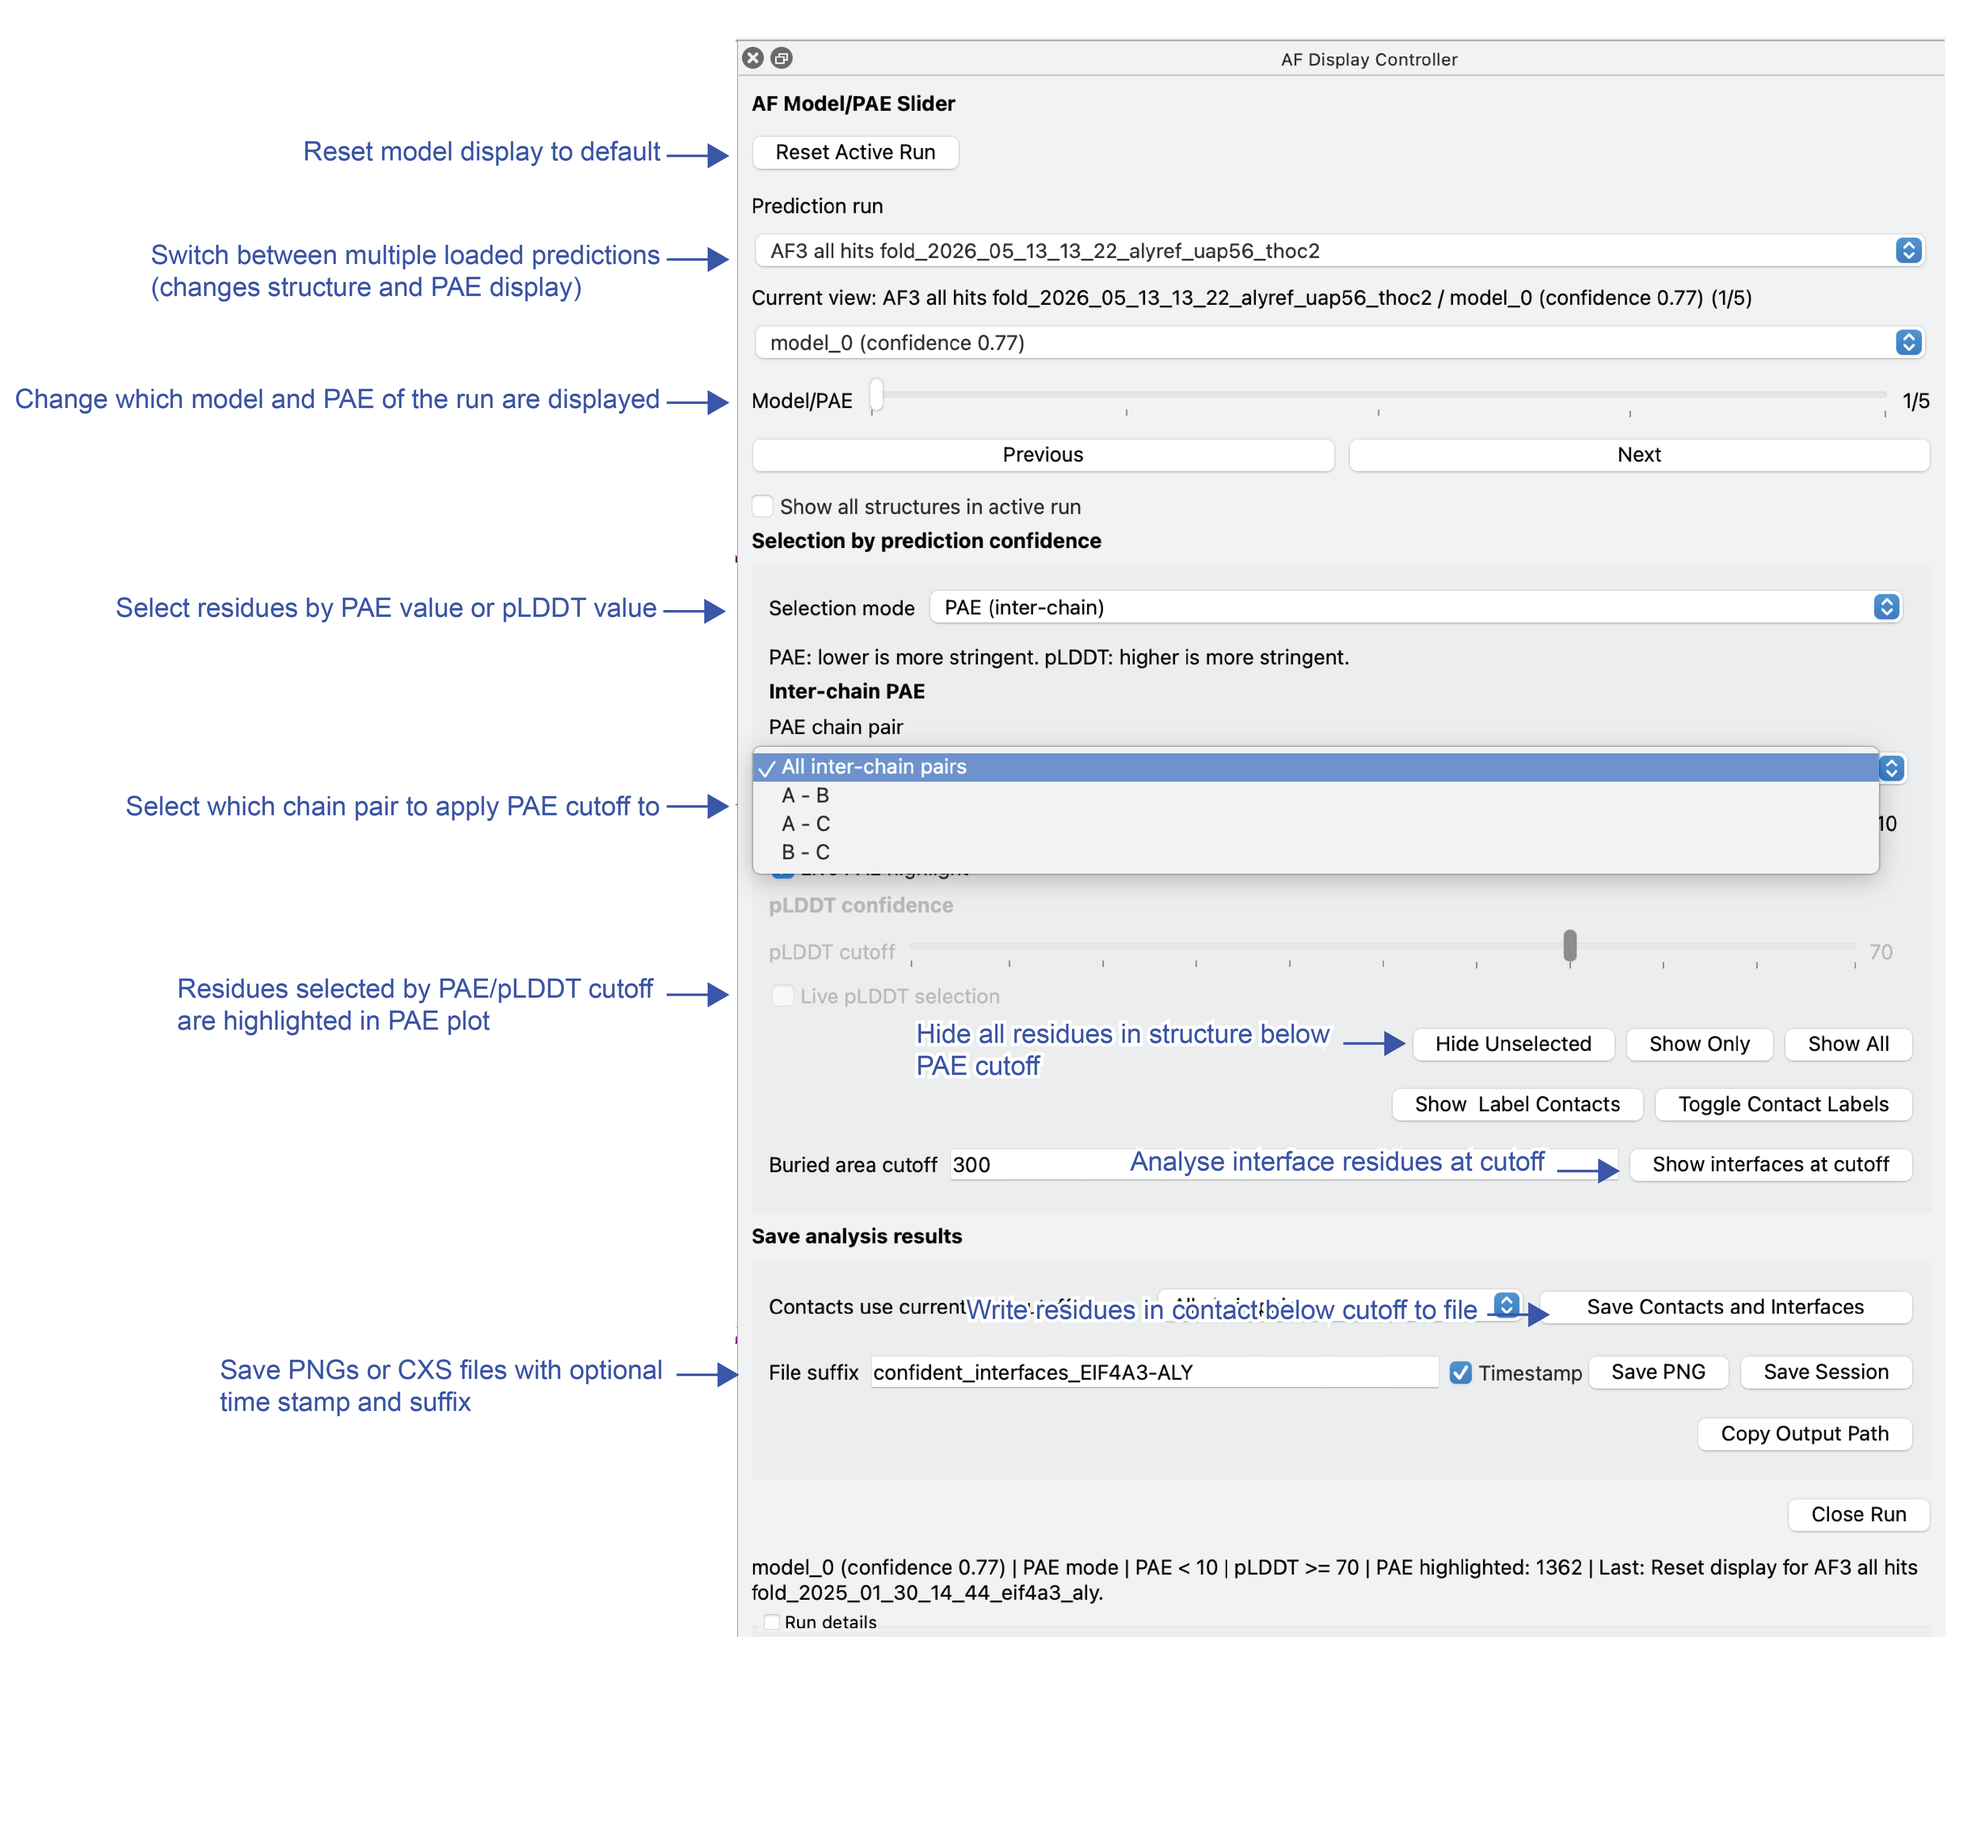
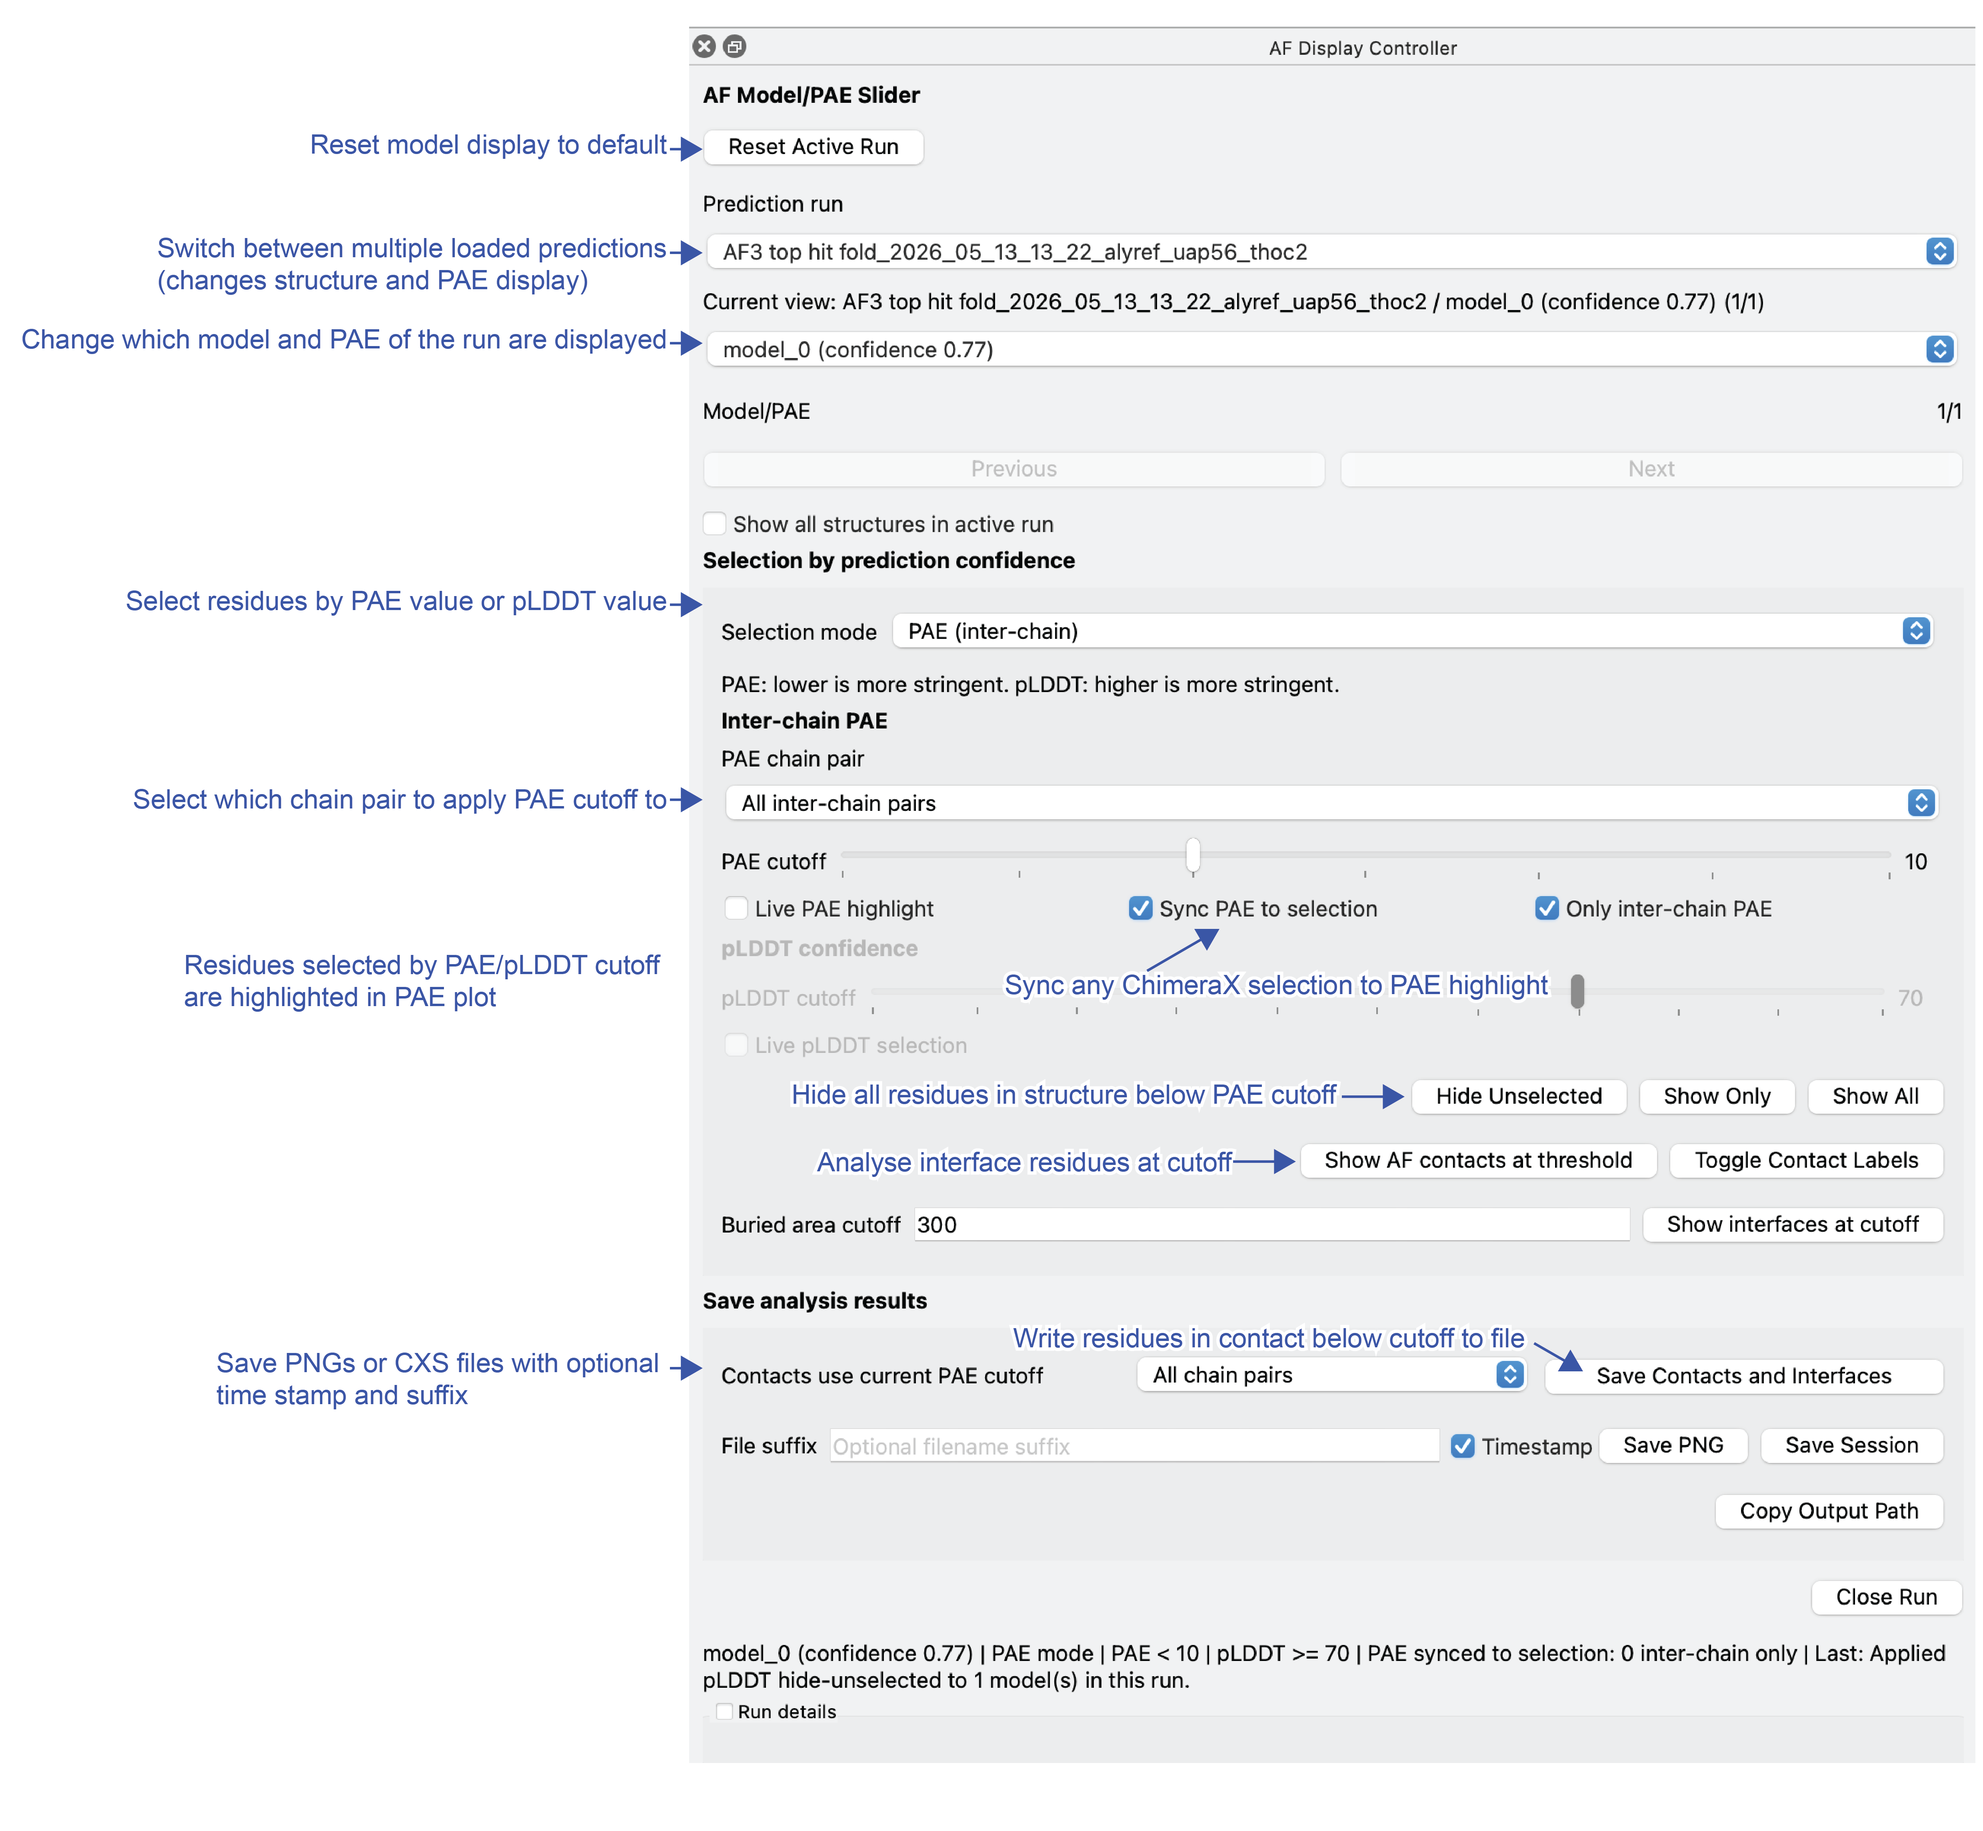
Update README screenshots

diff --git a/README.md b/README.md
@@ -1,8 +1,8 @@
 # ChimeraX AF Prediction Analysis Toolbars
 
-This bundle facilitates the analysis of alphafold (multimer) predictions by processing input folders and automatically associating PAE plots to predicted structures. Selection via numeric cutoffs on PAE or pLDDT values helps to focus on the confident parts of the predictions and tame the spaghetti monsters.
+This bundle facilitates the analysis of AlphaFold and AlphaFold-Multimer predictions by processing input folders and automatically associating PAE plots with predicted structures. Selection via numeric cutoffs on PAE or pLDDT values helps focus inspection on confident model regions, predicted interfaces, and lower-confidence regions that need care.
 
-![Annotated ChimeraX AF toolbar workflow](screenshots/Annotated_screenshot.png)
+![Annotated ChimeraX AF toolbar workflow](screenshots/Annotated_screenshot-01.png)
 
 ## Demo
 
@@ -117,11 +117,15 @@ Opening a prediction run prepares ChimeraX contact/interface display for every
 model, but does not write contact/interface files to disk. The `Save analysis
 results` section contains `Save Contacts and Interfaces` for writing formatted
 contact and interface reports for the active model to the active run's output
-folder. The `AF contacts PAE cutoff` slider controls how stringent ChimeraX's
-`alphafold contacts` command is for that save; lower values keep only more
-confident contacts. Rerunning contacts/interfaces removes old AF-contact residue
-labels before relabeling the current result. Interface residues are shown as
-connected residue sticks on top of the cartoon model.
+folder. Saved AlphaFold contact reports use the current `PAE cutoff`, and the
+contacts scope menu chooses either all chain pairs or the currently selected
+`PAE chain pair`. Lower PAE values are more stringent. Interface residues are
+shown as connected residue sticks on top of the cartoon model.
+
+Use `Show AF contacts at threshold` to refresh the displayed side chains,
+pseudobonds, and labels for the current PAE cutoff without writing files.
+Rerunning this display action removes old AF-contact residue labels before
+labeling the current result.
 
 Use `Save PNG` to save the current 3D view as a transparent-background PNG in
 the active run's output folder. Use `Save Session` to save a ChimeraX `.cxs`
@@ -132,10 +136,10 @@ controls whether saved PNG/session filenames include a timestamp.
 closes the active run's models and PAE plot without disturbing other loaded
 runs. `Reset Active Run` restores the active run to its initial slider/display
 state: first model selected, one model visible, all chain pairs selected, PAE
-mode selected, PAE threshold reset to 10, pLDDT cutoff reset to 70, AF contacts
-max PAE reset to 30, cartoon-only model display, and prepared contact side
-chains shown. Longer active-run path details are kept in the collapsed `Run
-details` panel to keep the controller compact.
+mode selected, PAE threshold reset to 10, pLDDT cutoff reset to 70, live PAE
+highlighting enabled, manual PAE selection sync disabled, cartoon-only model
+display, and prepared contact side chains shown. Longer active-run path details
+are kept in the collapsed `Run details` panel to keep the controller compact.
 
 
 ## Expected Input
@@ -175,7 +179,7 @@ files are written under:
 
 Formatted reports stay directly in that folder. Raw ChimeraX command output is
 kept separately under `raw/af_contacts/` and `raw/interface_residues/`. Contact
-reports record the `AF contacts max PAE` threshold used for that rerun.
+reports record the current PAE threshold used for that save.
 
 Saved PNG and ChimeraX session files are also written to the active mode folder.
 Their filenames include timestamps only when the display controller's
